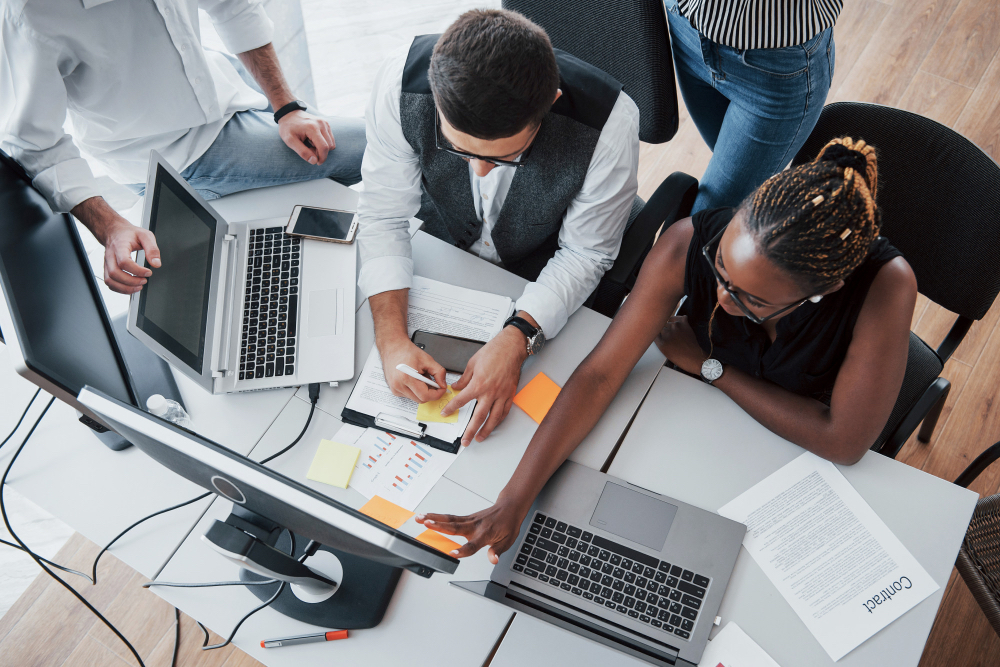
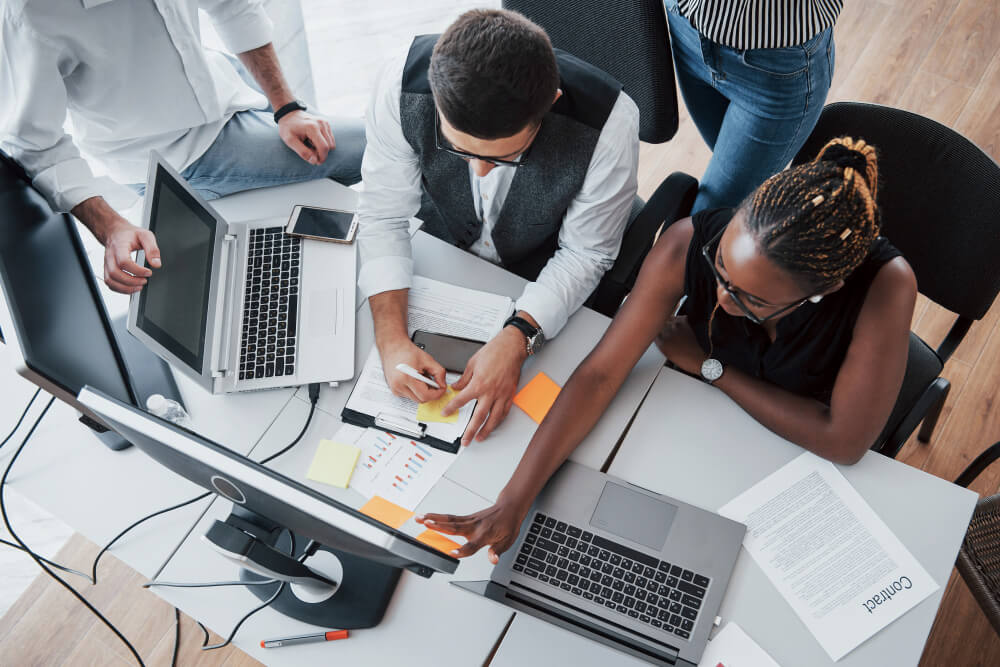
fix: :zap: optimized images for faster load

Changed region(s): [[0.868, 0.8696, 0.899, 0.8996], [0.806, 0.0, 0.837, 0.03], [0.031, 0.8396, 0.062, 0.8696]]

diff --git a/app/portfolio/page.tsx b/app/portfolio/page.tsx
@@ -8,29 +8,42 @@ import { projects } from "../data/projects";
 const PortfolioPage = () => {
   return (
     <main className="w-full min-h-screen bg-[#111]">
-      {/* HERO SECTION */}
-      <section className="relative h-[80vh] w-full flex items-center">
-        <div
-          className="absolute inset-0 z-0"
-          style={{
-            backgroundImage: "url('/images/hero1.jpg')",
-            backgroundSize: "cover",
-            backgroundPosition: "center",
-            filter: "grayscale(100%) brightness(0.6)",
-          }}
-        />
-        <div className="relative z-10 max-w-7xl mx-auto px-6 w-full mt-10">
-          <div className="text-sm md:text-base text-gray-300 mb-2 tracking-wide">
-            <Link href={"/"}>Home</Link>
-            <span className="mx-2">•</span>
-            <span className="text-white">Portfolio</span>
-          </div>
-          <h1 className="text-6xl md:text-7xl font-bold text-white tracking-tight">
-            Portfolio
-          </h1>
-        </div>
-        <div className="absolute bottom-0 left-0 right-0 h-24 bg-gradient-to-t from-[#111] to-transparent z-0" />
-      </section>
+{/* HERO SECTION */}
+<section className="relative h-[80vh] w-full flex flex-col justify-center">
+  {/* Background Image */}
+  <div
+    className="absolute inset-0 z-0"
+    style={{
+      backgroundImage: "url('/images/hero1.jpg')",
+      backgroundSize: "cover",
+      backgroundPosition: "center",
+      filter: "grayscale(100%) brightness(0.6)",
+    }}
+  />
+
+  {/* Breadcrumb */}
+  <div className="relative z-10 max-w-7xl mx-auto px-6">
+    <div className="text-sm md:text-base text-gray-300 mb-4 tracking-wide">
+      <Link href={"/"}>Home</Link>
+      <span className="mx-2">•</span>
+      <span className="text-white">Portfolio</span>
+    </div>
+  </div>
+
+  {/* Full-width Hero Title */}
+  <h1
+    className="relative z-10 w-full px-6 font-bold text-white tracking-tight leading-none"
+    style={{
+      fontSize: "clamp(6rem, 12vw, 12rem)", // responsive full-width scaling
+    }}
+  >
+    Portfolio
+  </h1>
+
+  {/* Bottom Gradient */}
+  <div className="absolute bottom-0 left-0 right-0 h-24 bg-gradient-to-t from-[#111] to-transparent z-0" />
+</section>
+
 
       {/* Our Story */}
       {/* <section className="max-w-4xl mx-auto px-6 py-20">

diff --git a/app/components/WhyChooseUs.tsx b/app/components/WhyChooseUs.tsx
@@ -24,7 +24,7 @@ const imageReveal: Variants = {
   show: {
     clipPath: "inset(0 0% 0 0)", // Fully visible
     transition: {
-      duration: 1.4,
+      duration: 2,
       ease: [0.22, 1, 0.36, 1], // Cubic bezier for smooth "luxury" feel
     },
   },
@@ -95,7 +95,7 @@ const WhyChooseUs = () => {
                 className="h-48 md:h-64 w-full rounded-md overflow-hidden relative"
               >
                 <Image
-                  src="/images/2149405387.jpg"
+                  src="/images/w-c-u-img-2.png"
                   alt="wireframe planning"
                   fill
                   className="object-cover grayscale hover:grayscale-0 transition-all duration-500"
@@ -108,7 +108,7 @@ const WhyChooseUs = () => {
                 className="h-48 md:h-64 w-full rounded-md overflow-hidden relative"
               >
                 <Image
-                  src="/images/2150167461.jpg"
+                  src="/images/w-c-u-img-3.png"
                   alt="laptop working"
                   fill
                   className="object-cover grayscale hover:grayscale-0 transition-all duration-500"
@@ -122,7 +122,7 @@ const WhyChooseUs = () => {
               className="h-[420px] w-full rounded-md overflow-hidden relative flex items-center"
             >
               <Image
-                src="/images/2149116525.jpg"
+                src="/images/w-c-u-img-1.png"
                 alt="person on phone"
                 fill
                 className="object-cover grayscale hover:grayscale-0 transition-all duration-500"

diff --git a/app/components/About.tsx b/app/components/About.tsx
@@ -55,12 +55,12 @@ const About: React.FC = () => {
             <motion.div
               initial={{ clipPath: "inset(0 100% 0 0)" }}
               whileInView={{ clipPath: "inset(0 0% 0 0)" }}
-              transition={{ duration: 1.5, ease: [0.22, 1, 0.36, 1] }}
+              transition={{ duration: 2, ease: [0.22, 1, 0.36, 1] }}
               viewport={{ once: true }}
               className="absolute inset-0 w-full h-full"
             >
               <Image
-                src="/images/2149311493.jpg"
+                src="/images/about-img.png"
                 alt="Team working together"
                 fill
                 className="object-cover rounded-sm grayscale hover:grayscale-0 transition-all duration-500"

diff --git a/app/components/Header.tsx b/app/components/Header.tsx
@@ -120,7 +120,7 @@ export default function HeroNav() {
 }
 
 
-
+// my site has images and videos as background or just part of the code and Layout, but when it loads the images and vieos do not load quickly and i need it to load snappy and quickly so my site bahaves professionally, not i am using next js tsx pls help me   
 
 // "use client";
 // import { motion } from "framer-motion";
